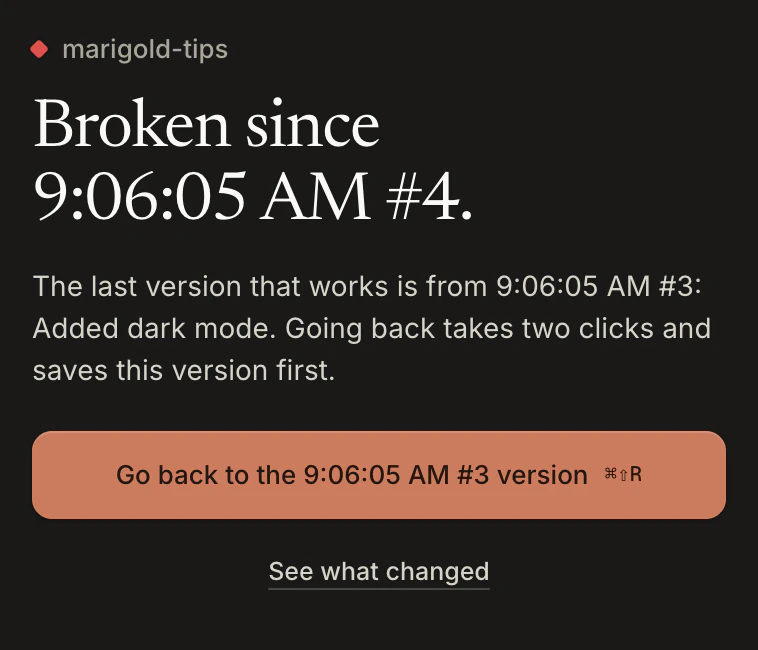
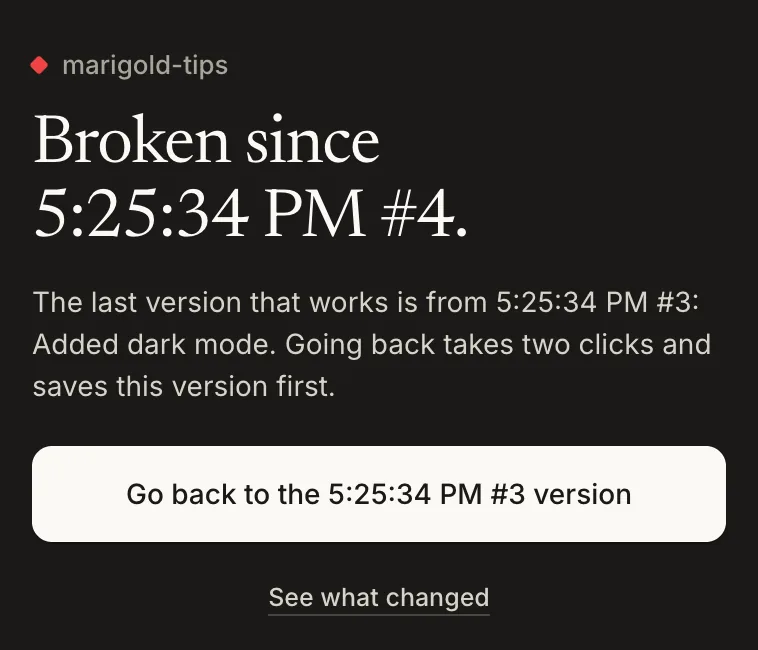
Site: S1, real tm ui captures (Design spec Part 2 row 1, build order 4)
- assets/img/app/{welcome,history,rewind}-{1440,390}.jpg: the real captures from ~/tm-ui-captures, the files the pages already reference.
- Hero: hero-app-window.webp (1540x990) and hero-app-card.webp (758x650) replaced with the real capture; <picture> split at 701 px, preloads and width/height unchanged. CSS traffic lights removed (no chrome). Alt text describes the web app's History screen.
- how-it-works and story: <picture> with a 390 source at 860 px and below, shown at phone size (280 px) as on home.
- Alt text matches the captures: the first screen offers Try the demo and Add a project; the history screen's button is Go back.

diff --git a/site/index.html b/site/index.html
@@ -67,10 +67,9 @@
         <p class="hero-alt"><a href="#try">Install from source</a> <span>Works on macOS and Linux. Needs Node 22 and Git.</span></p>
       </div>
       <figure class="hero-shot">
-        <span class="hero-lights" aria-hidden="true"><i></i><i></i><i></i></span>
         <picture>
           <source media="(max-width: 700px)" srcset="assets/img/hero-app-card.webp" width="758" height="650">
-          <img src="assets/img/hero-app-window.webp" width="1540" height="990" fetchpriority="high" alt="Time Machine on a demo project. It says Broken since 9:06 AM and offers one button: Go back to the 9:06 AM version, the last one that passed its check.">
+          <img src="assets/img/hero-app-window.webp" width="1540" height="990" fetchpriority="high" alt="The Time Machine web app showing the History of a demo project. It says the project is broken since a recent save point, names the last version that works, and offers one button: Go back to that version.">
         </picture>
       </figure>
     </div>
@@ -87,7 +86,7 @@
             <h3>Add your project and pick the check</h3>
             <p>Point the web app at your project folder. It guesses the command that shows your project works, such as <code translate="no">npm test</code>, and you confirm it.</p>
           </div>
-          <figure class="shot"><picture><source media="(max-width: 860px)" srcset="assets/img/app/welcome-390.jpg" width="390" height="844"><img src="assets/img/app/welcome-1440.jpg" width="1440" height="900" loading="lazy" decoding="async" alt="The web app's first screen asks for a project folder and shows the check it found, with a button to confirm it."></picture><figcaption>Real screen, synthetic project.</figcaption></figure>
+          <figure class="shot"><picture><source media="(max-width: 860px)" srcset="assets/img/app/welcome-390.jpg" width="390" height="844"><img src="assets/img/app/welcome-1440.jpg" width="1440" height="900" loading="lazy" decoding="async" alt="The web app's first screen, before any project is added. It offers two buttons: Try the demo and Add a project."></picture><figcaption>Real screen, synthetic project.</figcaption></figure>
         </li>
         <li class="story-row flip">
           <div class="story-text">
@@ -101,7 +100,7 @@
               <div><dt><span class="pill pill-none">Not checked yet</span></dt><dd>Saved, but not checked. Never shown as working.</dd></div>
             </dl>
           </div>
-          <figure class="shot"><picture><source media="(max-width: 860px)" srcset="assets/img/app/history-390.jpg" width="390" height="844"><img src="assets/img/app/history-1440.jpg" width="1440" height="900" loading="lazy" decoding="async" alt="The history screen lists each save point with its verdict. The newest is broken. An earlier one passed, and a button leads back to it."></picture><figcaption>Real screen, synthetic project.</figcaption></figure>
+          <figure class="shot"><picture><source media="(max-width: 860px)" srcset="assets/img/app/history-390.jpg" width="390" height="844"><img src="assets/img/app/history-1440.jpg" width="1440" height="900" loading="lazy" decoding="async" alt="The history screen lists each save point with its verdict. The newest is broken. An earlier one works, and a Go back button leads to it."></picture><figcaption>Real screen, synthetic project.</figcaption></figure>
         </li>
         <li class="story-row">
           <div class="story-text">

diff --git a/site/assets/home.css b/site/assets/home.css
@@ -53,10 +53,6 @@ body.home .btn-primary, .hero-form .wl-row .btn-primary { min-height: 44px; padd
    where macOS puts them (18 pt in, 12 pt wide, 8 pt apart) on the 1120 pt window the still was taken at. */
 .hero-shot { grid-area: shot; align-self: start; position: relative; width: 100%; margin: 32px 0 0; container-type: inline-size; overflow: hidden; border-radius: 12px; background: #141413; box-shadow: var(--shadow-window); }
 .hero-shot img { width: 100%; height: auto; }
-.hero-lights { --pt: calc(100cqw / 1120); position: absolute; top: calc(18 * var(--pt)); left: calc(18 * var(--pt)); display: flex; gap: calc(8 * var(--pt)); }
-.hero-lights i { width: calc(12 * var(--pt)); aspect-ratio: 1; border-radius: 50%; background: #ff5f57; box-shadow: inset 0 0 0 .5px rgba(0, 0, 0, .25); }
-.hero-lights i:nth-child(2) { background: #febc2e; }
-.hero-lights i:nth-child(3) { background: #28c840; }
 @media (min-width: 960px) {
   .hero { grid-template-columns: minmax(0, 1fr) minmax(0, 2fr); grid-template-rows: auto auto 1fr; grid-template-areas: "h1 shot" "sub shot" "form shot"; column-gap: 48px; }
   .hero h1 { font-size: clamp(40px, 1rem + 2.4vw, 56px); }
@@ -66,7 +62,6 @@ body.home .btn-primary, .hero-form .wl-row .btn-primary { min-height: 44px; padd
 /* Phones: one card from the app, at the size the app draws it. No window chrome. */
 @media (max-width: 700px) {
   .hero-shot { margin-top: 28px; border-radius: 16px; box-shadow: 0 0 0 1px var(--line); }
-  .hero-lights { display: none; }
 }
 @media (max-width: 600px) {
   .hero h1 br { display: none; }

diff --git a/site/story.html b/site/story.html
@@ -298,7 +298,10 @@
       <figure class="app-fig">
         <div class="app-win">
           <div class="app-bar" aria-hidden="true"><i></i><i></i><i></i><span>Time Machine</span></div>
-          <img src="assets/img/app/history-1440.jpg" width="1440" height="900" loading="lazy" decoding="async" alt="The Time Machine web app on the synthetic Marigold Tips project. The newest save point failed its check. A Rewind button leads to the earlier version that passed. The history shows each save point's own verdict.">
+          <picture>
+            <source media="(max-width: 860px)" srcset="assets/img/app/history-390.jpg" width="390" height="844">
+            <img src="assets/img/app/history-1440.jpg" width="1440" height="900" loading="lazy" decoding="async" alt="The Time Machine web app on the synthetic Marigold Tips project. The newest save point failed its check. A Go back button leads to the last version that passed. The history shows each save point's own verdict.">
+          </picture>
         </div>
         <figcaption>Real web app screen on a synthetic project, opened with <code>tm ui</code> from a source install.</figcaption>
       </figure>

diff --git a/site/how-it-works.html b/site/how-it-works.html
@@ -251,7 +251,8 @@ Saved first cp-0007
         </ul>
         <div class="shot">
           <picture>
-            <img src="assets/img/app/history-1440.jpg" width="1440" height="900" loading="lazy" decoding="async" alt="The Time Machine web app on the synthetic Marigold Tips project. The newest save point failed its check. A Rewind button leads to the earlier version that passed. The history shows each save point's own verdict.">
+            <source media="(max-width: 860px)" srcset="assets/img/app/history-390.jpg" width="390" height="844">
+            <img src="assets/img/app/history-1440.jpg" width="1440" height="900" loading="lazy" decoding="async" alt="The Time Machine web app on the synthetic Marigold Tips project. The newest save point failed its check. A Go back button leads to the last version that passed. The history shows each save point's own verdict.">
           </picture>
         </div>
         <p class="cap-note">Real web app screen on a synthetic project, opened with <code>tm ui</code> from a source install.</p>

diff --git a/site/assets/pages.css b/site/assets/pages.css
@@ -228,6 +228,8 @@
 .path h4 { margin: 30px 0 0; font: 500 13px/1.3 var(--font-body); color: var(--ink-3); }
 .path .shot { margin: 24px 0 0; overflow: hidden; border-radius: 14px; box-shadow: var(--shadow-window); background: var(--mist); }
 .path .shot img { width: 100%; }
+/* At 860 px and below the 390 px capture is shown at phone size, as on the home page. */
+@media (max-width: 860px) { .path .shot { width: 100%; max-width: 280px; margin-inline: auto; } }
 .path ul { margin: 14px 0 0; padding-left: 20px; color: var(--ink-2); }
 .path li { margin: 6px 0; }
 @media (max-width: 900px) { .paths { grid-template-columns: minmax(0, 1fr); } }

diff --git a/site/assets/story.css b/site/assets/story.css
@@ -214,6 +214,8 @@ main { position: relative; }
 .app-bar i { width: 11px; height: 11px; border-radius: 50%; background: color-mix(in srgb, var(--ink) 16%, transparent); }
 .app-bar span { flex: 1; margin-right: 47px; text-align: center; }
 .app-win img { width: 100%; height: auto; }
+/* At 860 px and below the 390 px capture is shown at phone size, as on the home page. */
+@media (max-width: 860px) { .app-win { max-width: 280px; margin-inline: auto; } }
 .app-fig figcaption { margin-top: 14px; font: 13px/1.5 var(--sans); color: var(--ink-3); }
 
 /* pay once */
